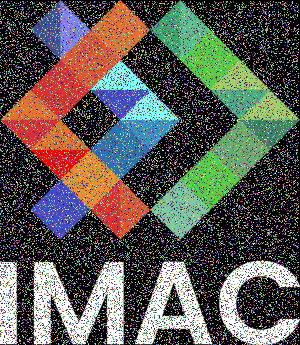
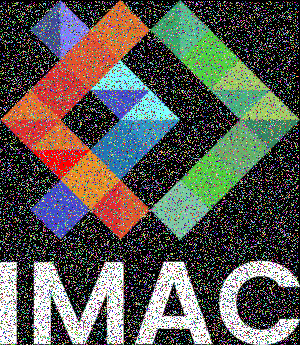
Convolution plus grande mais bon

diff --git a/src/main_lison.cpp b/src/main_lison.cpp
@@ -470,6 +470,19 @@ void main_lison()
             image.pixel(i, j) = (image.pixel(i, j)+image.pixel(i, j-1)+image.pixel(i-1, j-1)+image.pixel(i-1, j)+image.pixel(i-1, j+1)+image.pixel(i, j+1)+image.pixel(i+1, j+1)+image.pixel(i+1, j)+image.pixel(i+1, j-1))/glm::vec3(8);
         }
     }
+    image.save("output_l/convolution_petite.png");
+    sil::Image image2 {"images/logo.png"};
+    for(int i {2}; i<image.width()-2; i++){
+        for(int j {2}; j<image.height()-2; j++){
+            glm::vec3 color1 = (image.pixel(i, j)+image.pixel(i, j-1)+image.pixel(i-1, j-1)+image.pixel(i-1, j)+image.pixel(i-1, j+1)+image.pixel(i, j+1)+image.pixel(i+1, j+1)+image.pixel(i+1, j)+image.pixel(i+1, j-1));
+            glm::vec3 color2 = image.pixel(i-2, j-2)+image.pixel(i-2, j-1)+image.pixel(i-2, j)+image.pixel(i-2, j+1)+image.pixel(i-2, j+2);
+            glm::vec3 color3 = image.pixel(i-1, j-2)+image.pixel(i-1, j+2);
+            glm::vec3 color4 = image.pixel(i, j-2)+image.pixel(i, j+2);
+            glm::vec3 color5 = image.pixel(i+1, j-2)+image.pixel(i+1, j+2);
+            glm::vec3 color6 = image.pixel(i+2, j-2)+image.pixel(i+2, j-1)+image.pixel(i+2, j)+image.pixel(i+2, j+1)+image.pixel(i+2, j+2);
+            image.pixel(i, j) = (color1+color2+color3+color4+color5+color6)/glm::vec3(9+5+2+2+2+5);
+        }
+    }
     image.save("output_l/convolution.png");
 }
 
